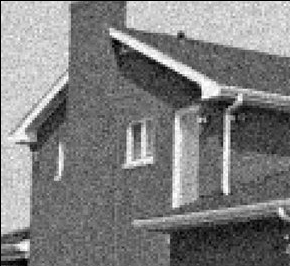
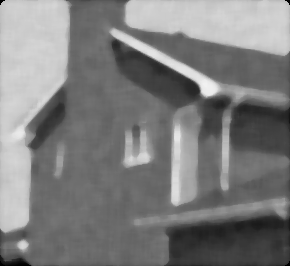
Sequential Code DONE!. =D

diff --git a/HPC_ProjectTemplate/Seq_Median_Filter.cpp b/HPC_ProjectTemplate/Seq_Median_Filter.cpp
@@ -10,6 +10,15 @@ Seq_Median_Filter::Seq_Median_Filter(int* Arr, int Width, int Height, int maskSi
 
 	re_imgWithBorders_v = re_imgWithBorders(Arr, maskSize, Width, Height);
 
+
+	FinalImage = new int* [Height + maskSize - 1];
+	for (int i = 0; i < height + maskSize - 1; ++i)
+	{
+		FinalImage[i] = new int[width + maskSize - 1];
+	}
+
+	FinalImage = applyMask(re_imgWithBorders_v, maskSize,width,height);
+
 }
 
 int** Seq_Median_Filter::re_imgWithBorders(int* imageData, int ms, int w, int h)
@@ -22,7 +31,6 @@ int** Seq_Median_Filter::re_imgWithBorders(int* imageData, int ms, int w, int h)
 	{
 		imgWithBorders[i] = new int[w + ms - 1];
 	}
-
 	int x = 0;//For imageData.
     #pragma endregion
 
@@ -34,7 +42,7 @@ int** Seq_Median_Filter::re_imgWithBorders(int* imageData, int ms, int w, int h)
 			{
 				imgWithBorders[i][j] = 0;
 			}
-			else if( i > h) //For BOTTOM
+			else if( i > (h-1+(ms/2))) //For BOTTOM
 			{
 				imgWithBorders[i][j] = 0;
 			}
@@ -42,7 +50,7 @@ int** Seq_Median_Filter::re_imgWithBorders(int* imageData, int ms, int w, int h)
 			{
 				imgWithBorders[i][j] = 0;
 			}
-			else if (j > w) //FOR RIGHT
+			else if (j > ((w-1)+(ms/2))) //FOR RIGHT
 			{
 				imgWithBorders[i][j] = 0;
 			}
@@ -60,19 +68,69 @@ int** Seq_Median_Filter::re_imgWithBorders(int* imageData, int ms, int w, int h)
 	return imgWithBorders;
 }
 
-int* Seq_Median_Filter::returned_imageData()
-{
-	int* re_imgWithBorders = new int[width * height];
+int** Seq_Median_Filter::applyMask(int** img, int ms, int w, int h) {
 
-	for (int i = 0; i < height; i++)
+	int** mask = new int* [ms];
+	for (int i = 0; i < ms; ++i)
 	{
-		for (int j = 0; j < width; j++)
+		mask[i] = new int[ms];
+	}
+
+	for (int i = 0; i < h; ++i)//For Rows
+	{
+		for (int j = 0; j < w; ++j)//For Columns
 		{
-			re_imgWithBorders[i * width + j] = imgWithBorders[i][j];
+			for (int x = 0; x < ms; x++) //For mask Rows
+			{
+				for (int y = 0; y < ms; y++)//For mask Columns
+				{
+					int ii = x+i;
+					int jj = y+j;
+					mask[x][y] = img[ii][jj];
+				}
+			}
+
+			//Sort and apply Filter
+			img[i][j] = SortImageMask(mask,ms);
+		}
+	}
+	return img;
+}
+
+int Seq_Median_Filter::SortImageMask(int** mask,int ms)
+{
+	int* m = new int[ms*ms];
+
+	for (int i = 0; i < ms; i++)
+	{
+		for (int j = 0; j < ms; j++)
+		{
+			m[i * ms + j] = mask[i][j];
+		}
+	}
+
+	sort(m, m + (ms*ms));
+
+	int target = m[(ms * ms) / 2];
+
+	return target;
+}
+int* Seq_Median_Filter::returned_imageData(int w, int h)
+{
+	//cout << w << " " << h << "Class\n";
+	int* final_img = new int[w * h];
+
+	for (int i = 0; i < h; i++)
+	{
+		for (int j = 0; j < w; j++)
+		{
+			final_img[i * w + j] = FinalImage[i][j];
 
 		}
 	}
-	return re_imgWithBorders;
+
+	return final_img;
+	
 }
 
 int Seq_Median_Filter::return_w()
@@ -87,6 +145,5 @@ int Seq_Median_Filter::return_h()
 
 Seq_Median_Filter::~Seq_Median_Filter()
 {
-	free(imgWithBorders);
-	free(FinalData);
+	free(FinalImage);
 }

diff --git a/HPC_ProjectTemplate/Source.cpp b/HPC_ProjectTemplate/Source.cpp
@@ -98,12 +98,10 @@ int main()
 
 	start_time_For_SeqentialCode = clock();
 
-	Seq_Median_Filter seq_f(imageData,OriginalImageWidth,OriginalImageHeight,maskSize);
-	int* re_imageData = seq_f.returned_imageData();
+	Seq_Median_Filter seq_f(imageData, OriginalImageWidth, OriginalImageHeight, maskSize);
+	int* re_imageData = seq_f.returned_imageData(OriginalImageWidth, OriginalImageHeight);
 
-	int w = seq_f.return_w();
-	int h = seq_f.return_h();
-	createImage(re_imageData, w, h, 0);
+	createImage(re_imageData, OriginalImageWidth, OriginalImageHeight, 0);
 
 	stop_time_For_SeqentialCode = clock();
 	Totaltime_For_SeqentialCode += (stop_time_For_SeqentialCode - start_time_For_SeqentialCode) / double(CLOCKS_PER_SEC) * 1000;

diff --git a/HPC_ProjectTemplate/Seq_Median_Filter.h b/HPC_ProjectTemplate/Seq_Median_Filter.h
@@ -5,6 +5,7 @@
 #include<string.h>
 #include<msclr\marshal_cppstd.h>
 #include <vector>
+#include <algorithm>
 
 using namespace std;
 
@@ -12,12 +13,14 @@ ref class Seq_Median_Filter
 {
 public:
 
-	int* FinalData;
 	int width, height;
 	int** imgWithBorders;
+	int** FinalImage;
 	Seq_Median_Filter(int*, int, int, int);
-	int* returned_imageData();
+	int* returned_imageData(int , int);
 	int**re_imgWithBorders(int*, int, int, int);
+	int** applyMask(int**, int, int, int);
+	int SortImageMask(int**,int);
 	int return_w();
 	int return_h();
 	~Seq_Median_Filter();
